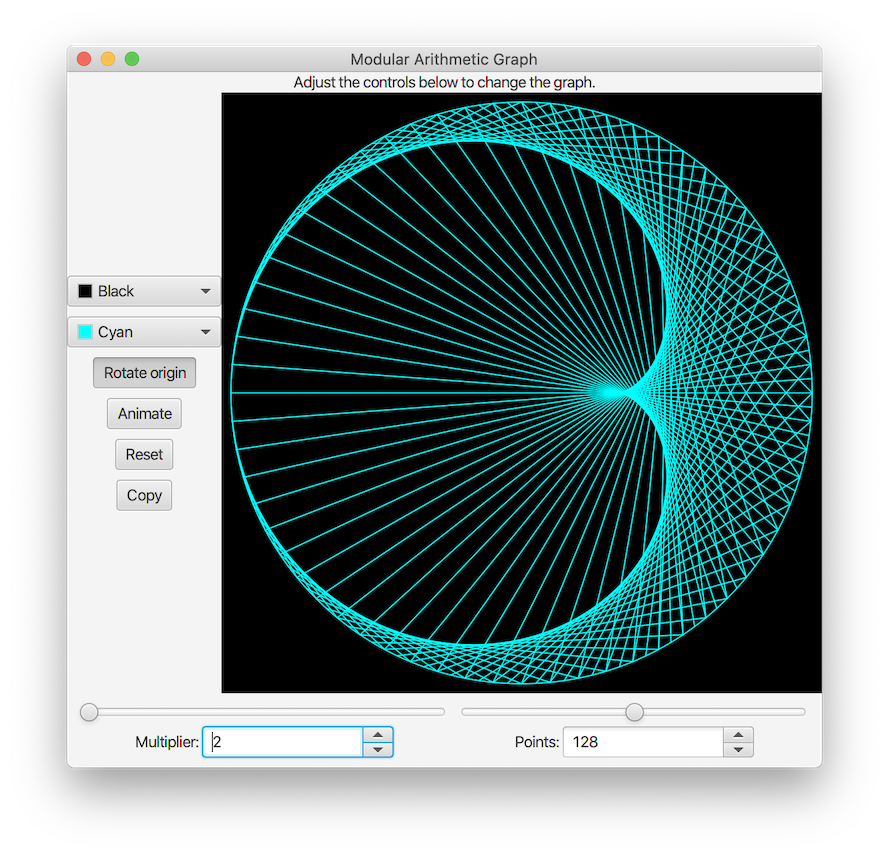
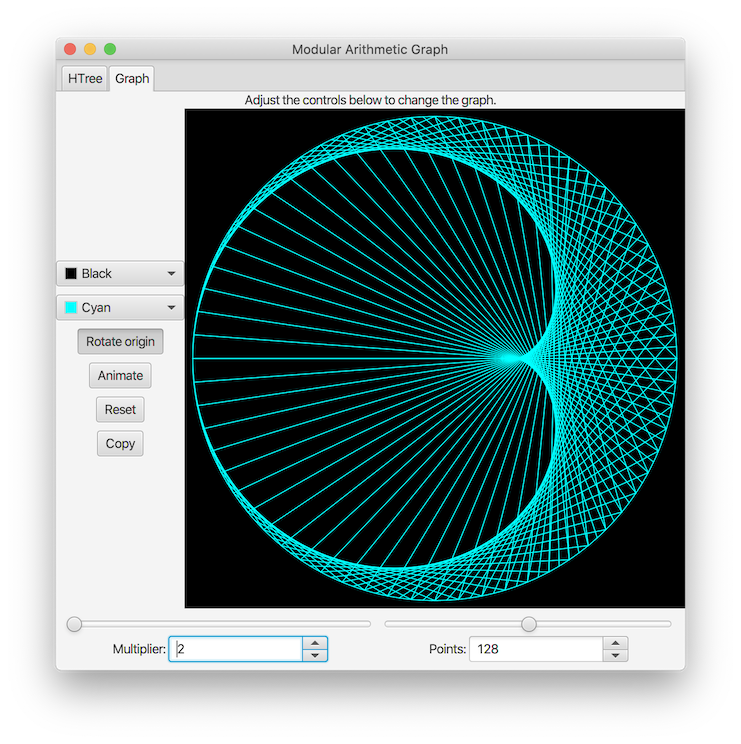
Version 3.0.

Changed region(s): [[0.0621, 0.0618, 0.9312, 0.9274], [0.0931, 0.8038, 0.1242, 0.8656]]

diff --git a/src/main/java/org/example/math/HTreeModel.java b/src/main/java/org/example/math/HTreeModel.java
@@ -17,12 +17,18 @@ public class HTreeModel {
      * Maximum order.
      */
     public static final int MAX = 9;
- 
+
     /**
      * Default order.
      */
     public static final int ORDER = 4;
     private final IntegerProperty n = new SimpleIntegerProperty(ORDER);
+
+    /**
+     * An {@code HTree} model of order <i>n</i>.
+     */
+    public HTreeModel() {
+    }
 
     /**
      * @return this tree's number of levels property

diff --git a/src/main/java/org/example/math/HTreeView.java b/src/main/java/org/example/math/HTreeView.java
@@ -36,6 +36,11 @@ public class HTreeView extends Pane {
     private final Canvas canvas = new Canvas();
     private final InvalidationListener listener = (o) -> update();
 
+    /**
+     * A {@code Pane} that renders a view of an {@code HTree}.
+     * 
+     * @param model the model rendered by this view
+     */
     public HTreeView(HTreeModel model) {
         this.model = model;
         this.getChildren().add(canvas);

diff --git a/src/main/java/org/example/math/GraphView.java b/src/main/java/org/example/math/GraphView.java
@@ -37,6 +37,11 @@ public class GraphView extends Pane {
     private final Canvas canvas = new Canvas();
     private final InvalidationListener listener = (o) -> update();
 
+    /**
+     * A {@code Pane} that renders a view of a {@code Graph}.
+     * 
+     * @param graph the model displayed by this view 
+     */
     public GraphView(Graph graph) {
         this.graph = graph;
         this.getChildren().add(canvas);

diff --git a/src/main/java/org/example/math/Graph.java b/src/main/java/org/example/math/Graph.java
@@ -19,11 +19,14 @@ public class Graph {
     /**
      * Default multiplier
      */
-
     public static final double MULTIPLIER = 2.0;
+
     private final IntegerProperty p = new SimpleIntegerProperty(POINTS);
     private final DoubleProperty m = new SimpleDoubleProperty(MULTIPLIER);
 
+    /**
+     * A {@code Graph} that models chords connecting points on a circle.
+     */
     public Graph() {
     }
 

diff --git a/src/main/java/org/example/math/package-info.java b/src/main/java/org/example/math/package-info.java
@@ -6,7 +6,7 @@
  * Modular Arithmetic Graph: A modular application that renders chords
  * connecting points on a circle.
  *
- * @see <a href="https://github.com/trashgod/modular/"><i>Modular Project
- * Graph on GitHub.</i></a>
+ * @see <a href="https://github.com/trashgod/modular/"><i>Project Modular on
+ * GitHub.</i></a>
  */
 package org.example.math;

diff --git a/README.md b/README.md
@@ -1,11 +1,17 @@
-# Modular Arithmetic Graph
+# Modular Project
 
-This JavaFX application renders chords connecting points on a circle. Patterns emerge as the controls are adjusted interactively. The project was inspired by [_Times Tables, Mandelbrot and the Heart of Mathematics_](https://www.youtube.com/watch?v=qhbuKbxJsk8). Typical images produced by the application resemble the ones shown [here](https://github.com/Tonumoy/Modular-Arithmetic-on-a-Circle-in-Python).
+Project *modular* is a simple framework that provides a home for `Modular` JavaFX applications. Applications that implement the `Modular` interface can easily be added to the `ModularHome` application.
 
 To run the program from the command line, type:
 
     mvn clean javafx:run
 
-New in version 2.0:
+## HTree
+
+A *modular* application that displays an [`HTree`](https://en.wikipedia.org/wiki/H_tree) along with control to for depth, stroke, color and animation.
+
+## Modular Arithmetic Graph
+
+This JavaFX application renders chords connecting points on a circle. Patterns emerge as the controls are adjusted interactively. The project was inspired by [_Times Tables, Mandelbrot and the Heart of Mathematics_](https://www.youtube.com/watch?v=qhbuKbxJsk8). Typical images produced by the application resemble the ones shown [here](https://github.com/Tonumoy/Modular-Arithmetic-on-a-Circle-in-Python).
 
 ![ModularApp.png](https://github.com/trashgod/modular/blob/master/ModularApp.png)
